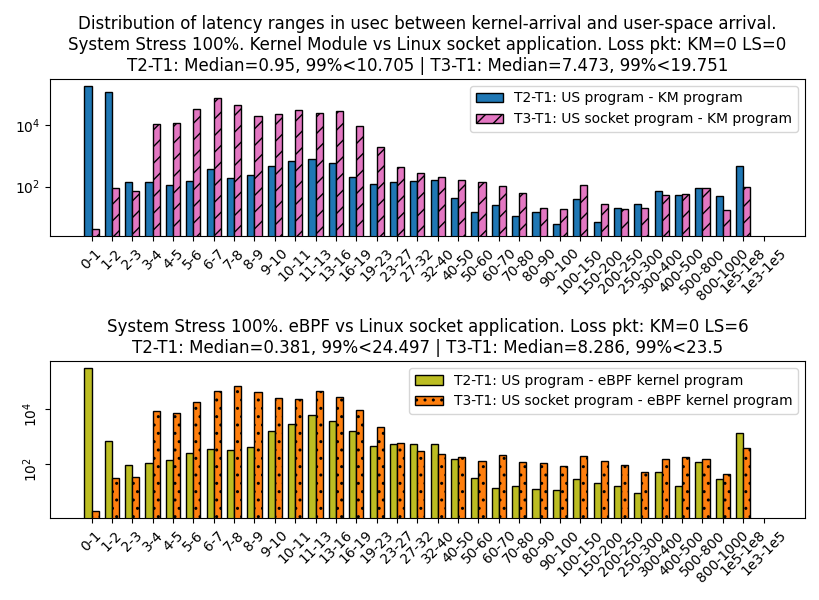
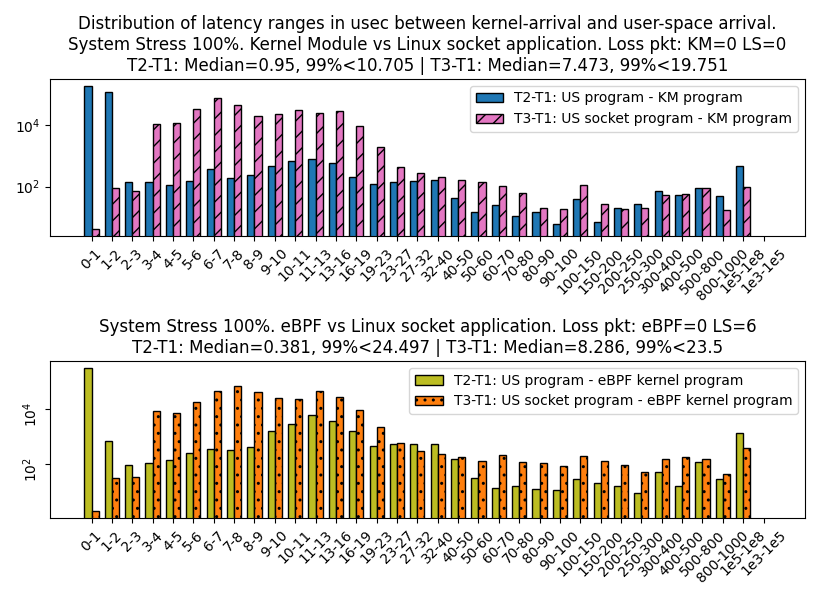
.

Changed region(s): [[0.1221, 0.51, 0.9158, 0.57]]

diff --git a/scripts/ps_combi_2_stress_non.py b/scripts/ps_combi_2_stress_non.py
@@ -362,11 +362,11 @@ for test_case in test_cases:
     # Add some text for labels, title and custom x-axis tick labels, etc.
     case = translate_cases.get(test_case)
     # loss_pkt_km_text = ""
-    loss_pkt_km_text = f"Loss pkt: KM={logs_zeroed[1]} LS={logs_zeroed[2]}"# if logs_zeroed[2]!=0 else ""
+    loss_pkt_km_text = f"Loss pkt: KM={abs(2*logs_zeroed[0]-logs_zeroed[1])} LS={abs(2*logs_zeroed[0]-logs_zeroed[2])}"# if logs_zeroed[2]!=0 else ""
 
 
     # loss_pkt_ebpf_text = ""
-    loss_pkt_ebpf_text = f"Loss pkt: KM={logs_zeroed[4]} LS={logs_zeroed[5]}"
+    loss_pkt_ebpf_text = f"Loss pkt: eBPF={abs(2*logs_zeroed[3]-logs_zeroed[4])} LS={abs(2*logs_zeroed[3]-logs_zeroed[5])}"
     axs[0].set_title(
         "Distribution of latency ranges in usec between kernel-arrival and user-space arrival.\n" +
         case[0] +
